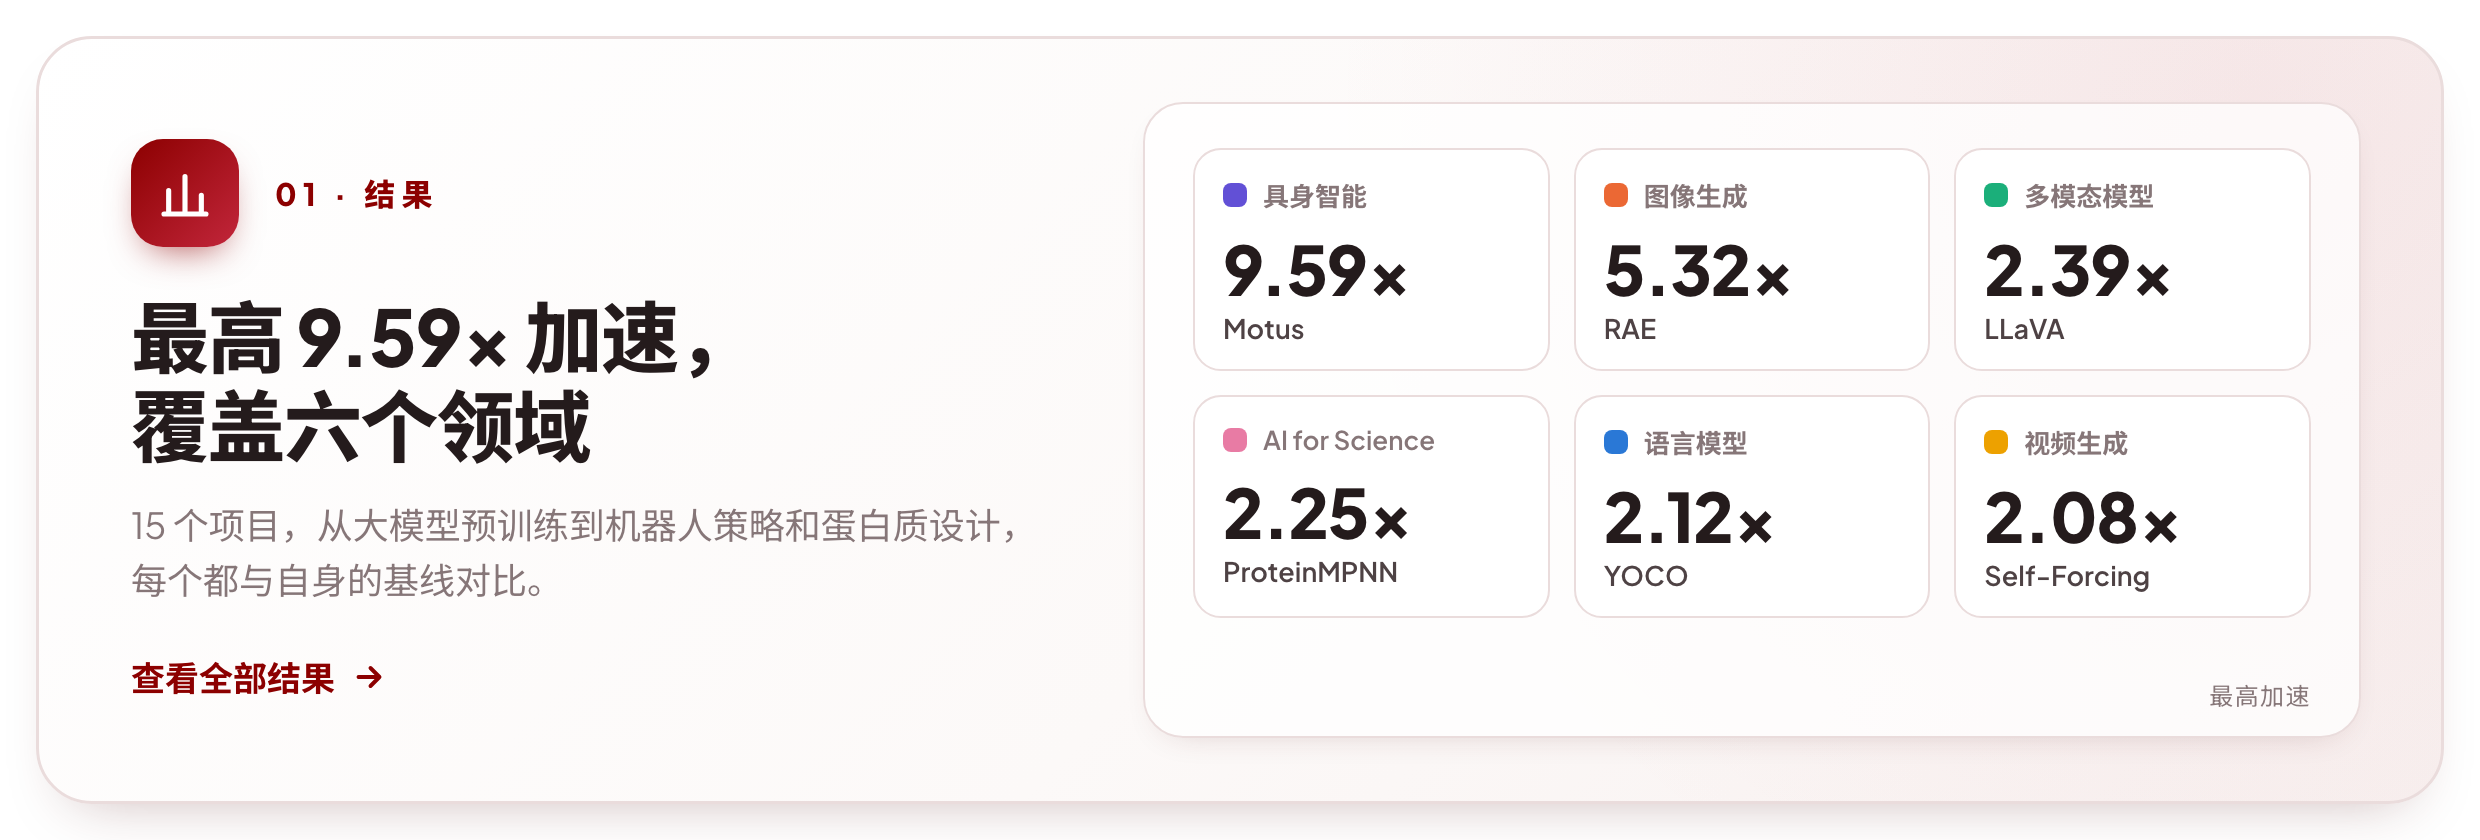
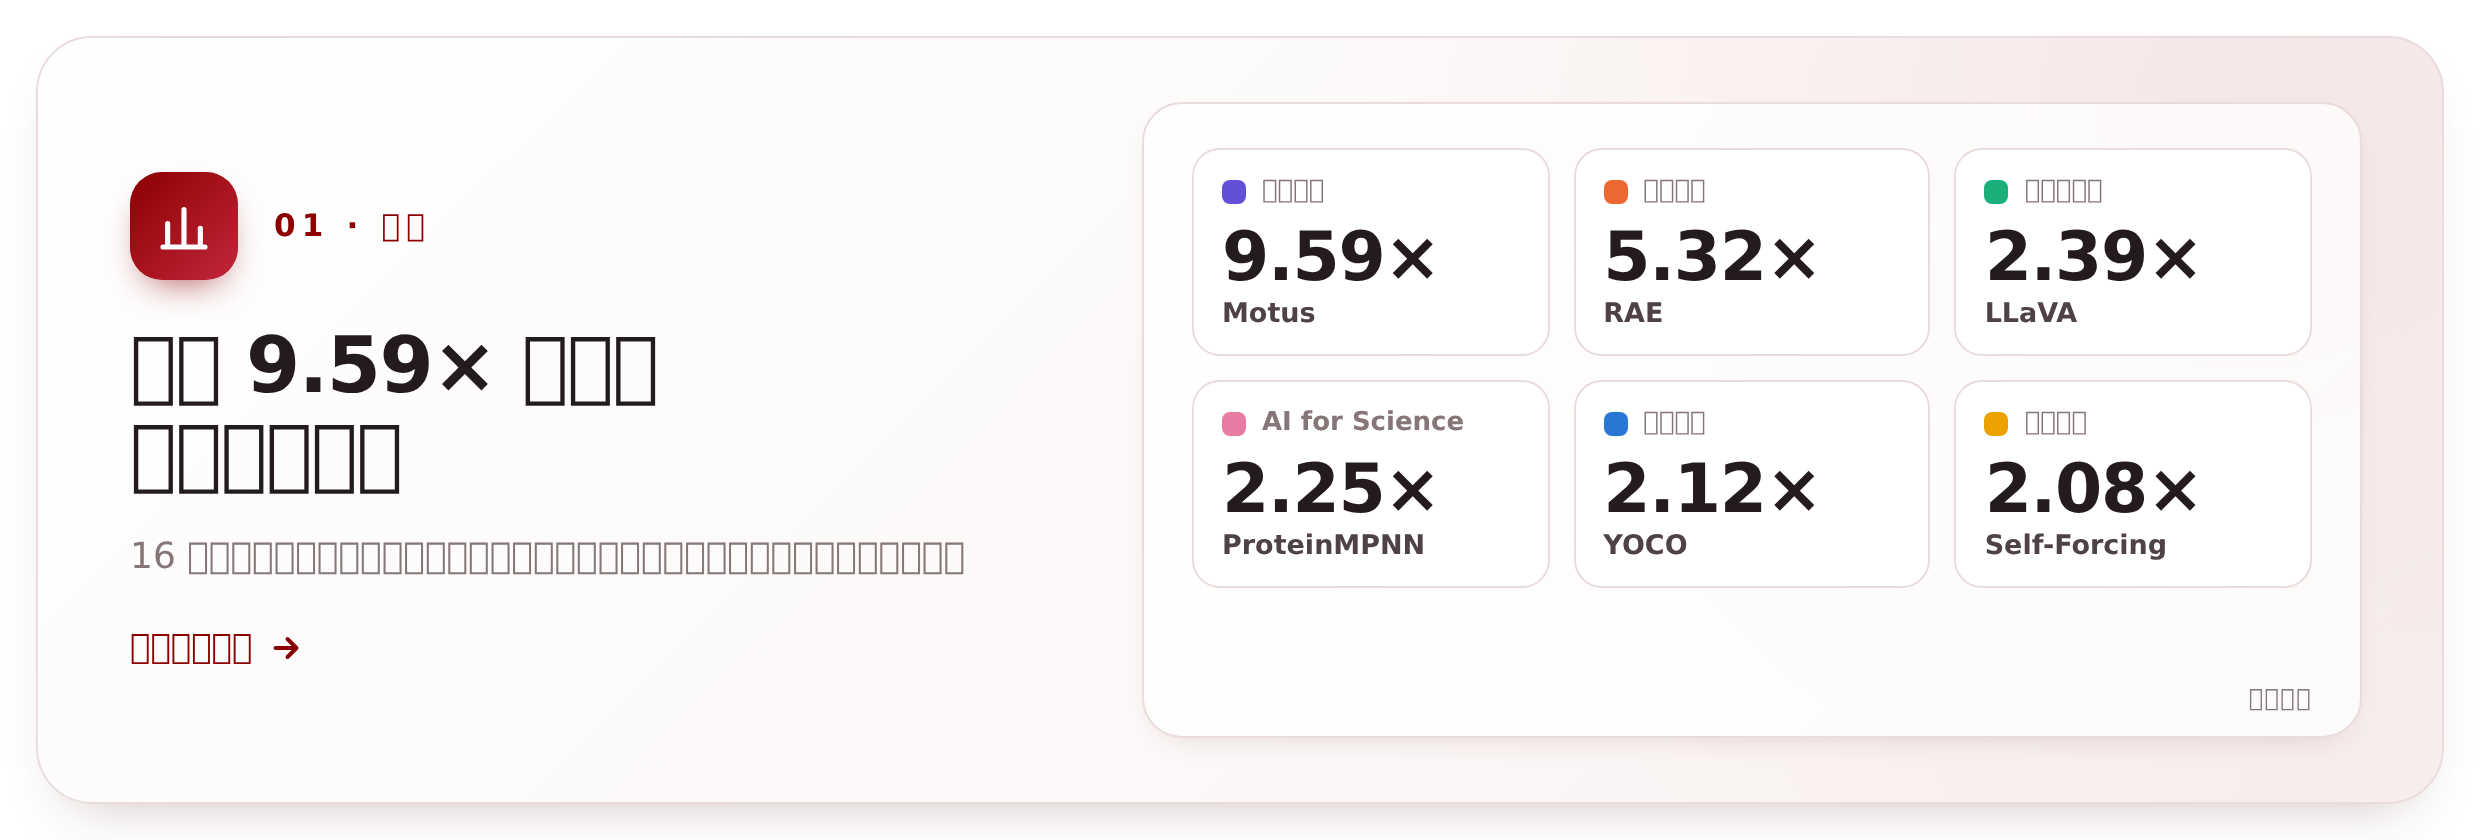
docs: add Faster-FermiNet to AI for Science results

diff --git a/docs/assets/readme/render.py b/docs/assets/readme/render.py
@@ -54,7 +54,7 @@ T = {
                     ("quickstart", "rocket", "Quick start", "light")],
         "cards": [
             ("results", "chart", "01 · RESULTS", "Up to 9.59× faster,<br>across six domains",
-             "15 projects, from LLM pretraining to robot policies and protein design, each measured against its own baseline.",
+             "16 projects, from LLM pretraining to robot policies and protein design, each measured against its own baseline.",
              "See all results"),
             ("prompt", "terminal", "02 · ONE PROMPT", "Paste one prompt,<br>get a verified speedup",
              "Open Codex or Claude Code on a GPU host. The agent finds the code, asks only what is yours to decide, and does the rest.",
@@ -128,7 +128,7 @@ T = {
                     ("quickstart", "rocket", "快速开始", "light")],
         "cards": [
             ("results", "chart", "01 · 结果", "最高 9.59× 加速，<br>覆盖六个领域",
-             "15 个项目，从大模型预训练到机器人策略和蛋白质设计，每个都与自身的基线对比。",
+             "16 个项目，从大模型预训练到机器人策略和蛋白质设计，每个都与自身的基线对比。",
              "查看全部结果"),
             ("prompt", "terminal", "02 · 一段提示词", "粘贴一段话，<br>拿到验证过的加速",
              "在 GPU 主机上打开 Codex 或 Claude Code。agent 自己找到代码，只问需要你决定的事，其余全部自己完成。",

diff --git a/docs/figures/make_results_overview.py b/docs/figures/make_results_overview.py
@@ -37,6 +37,7 @@ PROJECTS = [
     ("DMD2", "img", 1.72, "1.72×", False, "stat"),
     ("LLM2Vec", "llm", 1.6009, "1.60×", False, "stat"),
     ("JiT", "img", 1.56, "1.56×", False, "stat"),
+    ("FermiNet", "sci", 1.252, "1.25×", False, "bitwise"),
     ("NanoChat", "llm", 1.0744, "1.07×", False, "stat"),
 ]
 

diff --git a/docs/results/ai4s.md b/docs/results/ai4s.md
@@ -2,7 +2,7 @@
 
 [← All results](README.md) · [ResearchBoost-Agent](../../README.md#results)
 
-1 project · [ProteinMPNN](#faster-proteinmpnn)
+2 projects · [ProteinMPNN](#faster-proteinmpnn) · [FermiNet](#faster-ferminet)
 
 ## Faster-ProteinMPNN
 
@@ -22,3 +22,31 @@ Six of the recipe's 150 epochs (8,970 updates) per arm, run reference → candid
 This is a bounded exploratory comparison, not a frozen-judge four-gate PASS or a full-training convergence claim. The source tree contains the pinned upstream implementation with the training optimization applied in place, an unchanged reference arm, and reproduction scripts.
 
 [Code & project README ↗](https://github.com/micky-li-hd/Faster-ProteinMPNN) · [Detailed evidence ↗](https://github.com/micky-li-hd/Faster-ProteinMPNN/blob/main/six_epoch_evidence.json)
+
+## Faster-FermiNet
+
+Contributed by [@sen-ye](https://github.com/sen-ye).
+
+**FermiNet all-electron training on Fe, Kr, Cd and Xe · KFAC · 1024 walkers per GPU**
+
+| Item | Result |
+|---|---|
+| Speedup | **1.25×** (geometric mean 1.252× across four atoms) |
+| Hardware | 1 × NVIDIA H20 96 GB per atom; four independent single-GPU runs |
+| Measurement scope | Steady-state training-step time; compilation and warm-up excluded |
+| Validation | Frozen timing and bitwise gates PASS for all four atoms; every recorded step matches in 8-step and 110-step deterministic-mode checks |
+
+| Atom | Baseline (s/step) | Optimized (s/step) | Speedup |
+|---|---:|---:|---:|
+| Fe | 0.5383 | 0.4319 | **1.2463×** |
+| Kr | 1.1901 | 0.9569 | **1.2438×** |
+| Cd | 2.3870 | 1.8900 | **1.2630×** |
+| Xe | 3.7101 | 2.9564 | **1.2549×** |
+
+Based on upstream FermiNet at `e9d5a604`, with JAX 0.7.2 and cuBLAS 12.9.1.4. Eight ResearchBoost-Agent rounds (16 attempts) produced a bit-exact Pallas triangular-solve kernel that preserves cuBLAS layout and a 2× unroll of the Laplacian loop. All atoms use one generic configuration, with upstream precision, hyperparameters and random streams unchanged.
+
+Timing uses default XLA flags and independent baseline A → candidate → baseline B processes on the same GPU. Each arm runs 18 iterations; compilation and two warm-up steps are excluded, and the median of three 5-step windows determines step time. Bitwise checks run separately with `XLA_FLAGS=--xla_gpu_deterministic_ops=true`, using the same optimization switches. Energy bits, acceptance probabilities, walkers, parameters, KFAC optimizer state and MCMC width match at every recorded step, including width adaptation at step 100. The kernel also matches real cuBLAS for sizes 9–64, four variants and three input scales.
+
+The measurements cover single-device, real ground-state training with the default Laplacian on the pinned H20 stack. Pretraining and burn-in are shortened for benchmarking; the timed step is unchanged. Full training to convergence and deterministic-mode timing were not run. The portable reproduction launchers package the recorded protocol but have not themselves been rerun end to end. Revalidate the kernel on a different GPU or software stack.
+
+[Code & project README ↗](https://github.com/sen-ye/faster-ferminet) · [Timing & validation evidence ↗](https://github.com/sen-ye/faster-ferminet/blob/master/docs/validation/h20.json) · [Bitwise records ↗](https://github.com/sen-ye/faster-ferminet/blob/master/docs/validation/bitwise_records.json) · [Frozen judge ↗](https://github.com/sen-ye/faster-ferminet/blob/master/task/formulation.json) · [Optimization history ↗](https://github.com/sen-ye/faster-ferminet/blob/master/docs/history.md) · [Reproduction ↗](https://github.com/sen-ye/faster-ferminet/blob/master/docs/reproduction.md)

diff --git a/README.md b/README.md
@@ -45,7 +45,7 @@
 
 ## Highlights
 
-<a href="#results"><img src="docs/assets/readme/card-results-en.png" alt="Up to 9.59× faster across six research domains: 15 projects, each measured against its own baseline." width="100%"></a>
+<a href="#results"><img src="docs/assets/readme/card-results-en.png" alt="Up to 9.59× faster across six research domains: 16 projects, each measured against its own baseline." width="100%"></a>
 
 <a href="#quick-start"><img src="docs/assets/readme/card-prompt-en.png" alt="Paste one prompt into Codex or Claude Code; the agent finds the code, asks only what is yours to decide, and does the rest." width="100%"></a>
 
@@ -55,7 +55,7 @@
 
 ## Results
 
-<a href="https://ai4ai-for-anything.github.io/#research"><img src="docs/figures/results-overview.svg" alt="All 15 projects ranked by speedup over their own baselines, from 9.59× (Motus) to 1.07× (NanoChat), with how each was validated" width="100%"></a>
+<a href="https://ai4ai-for-anything.github.io/#research"><img src="docs/figures/results-overview.svg" alt="All 16 projects ranked by speedup over their own baselines, from 9.59× (Motus) to 1.07× (NanoChat), with how each was validated" width="100%"></a>
 
 <img src="docs/figures/results-time.svg" alt="Baseline vs optimized time for six projects, such as Motus fine-tuning from 7.47 s to 0.78 s per iteration and the RoboTwin benchmark from 73.5 h to 16.8 h" width="100%">
 
@@ -126,11 +126,12 @@ Open a domain for the workloads, or the reports for experiment settings and vali
 </details>
 
 <details>
-<summary><strong>AI for Science</strong> · 1 project — ProteinMPNN</summary>
+<summary><strong>AI for Science</strong> · 2 projects — ProteinMPNN, FermiNet</summary>
 
 | Project | Workload | Speedup |
 |---|---|---:|
 | [Faster-ProteinMPNN](https://github.com/micky-li-hd/Faster-ProteinMPNN) by [@micky-li-hd](https://github.com/micky-li-hd) | ProteinMPNN v_48_020 training · full public dataset | **2.25×** |
+| [Faster-FermiNet](https://github.com/sen-ye/faster-ferminet) by [@sen-ye](https://github.com/sen-ye) | Fe / Kr / Cd / Xe all-electron training · KFAC, 1024 walkers per GPU | **1.25×** |
 
 [Measurement setup & validation →](docs/results/ai4s.md)
 
@@ -204,7 +205,7 @@ The quick start does this for you. By hand: read [AGENTS.md](AGENTS.md) and [doc
 
 | Path | Contents |
 |---|---|
-| [`docs/results/`](docs/results) | Results from 15 projects, grouped by domain, with measurement scope and validation records |
+| [`docs/results/`](docs/results) | Results from 16 projects, grouped by domain, with measurement scope and validation records |
 | [`docs/`](docs) | [Methodology](docs/methodology.md), [the judge](docs/judge.md), [goal mode](docs/goal-mode.md), [running a task](docs/run-a-task.md), [lessons from four tasks](docs/lessons.md) |
 | [`goal/`](goal) | Running one Codex or Claude Code `/goal` session on claw-orchestrator: the task scaffold, the sandbox, model access for both engines, run / status / steer / resume scripts and the final check, the watchdog, the brief for the formulating and supervising agent |
 | [`numerics/`](numerics) | The equivalence component every task judge copies and freezes: recording, bitwise and tiered comparison, paired-seed trajectories, the task adapter base class, a self-test |

diff --git a/README.zh-CN.md b/README.zh-CN.md
@@ -45,7 +45,7 @@
 
 ## 亮点
 
-<a href="#已有结果"><img src="docs/assets/readme/card-results-zh.png" alt="最高 9.59× 加速，覆盖六个研究领域：15 个项目，每个都与自身的基线对比。" width="100%"></a>
+<a href="#已有结果"><img src="docs/assets/readme/card-results-zh.png" alt="最高 9.59× 加速，覆盖六个研究领域：16 个项目，每个都与自身的基线对比。" width="100%"></a>
 
 <a href="#快速开始"><img src="docs/assets/readme/card-prompt-zh.png" alt="在 Codex 或 Claude Code 里粘贴一段话；agent 自己找到代码，只问需要你决定的事，其余全部自己完成。" width="100%"></a>
 
@@ -55,7 +55,7 @@
 
 ## 已有结果
 
-<a href="https://ai4ai-for-anything.github.io/#research"><img src="docs/figures/results-overview.zh-CN.svg" alt="15 个项目按相对自身基线的加速比排名，从 9.59×（Motus）到 1.07×（NanoChat），附验证方式" width="100%"></a>
+<a href="https://ai4ai-for-anything.github.io/#research"><img src="docs/figures/results-overview.zh-CN.svg" alt="16 个项目按相对自身基线的加速比排名，从 9.59×（Motus）到 1.07×（NanoChat），附验证方式" width="100%"></a>
 
 <img src="docs/figures/results-time.zh-CN.svg" alt="6 个项目的基线与优化后耗时对比，例如 Motus 微调每次迭代从 7.47 s 降到 0.78 s，RoboTwin 完整评测从 73.5 h 降到 16.8 h" width="100%">
 
@@ -126,11 +126,12 @@
 </details>
 
 <details>
-<summary><strong>AI for Science</strong> · 1 个项目 — ProteinMPNN</summary>
+<summary><strong>AI for Science</strong> · 2 个项目 — ProteinMPNN、FermiNet</summary>
 
 | 项目 | 工作负载 | 加速比 |
 |---|---|---:|
 | [Faster-ProteinMPNN](https://github.com/micky-li-hd/Faster-ProteinMPNN)（[@micky-li-hd](https://github.com/micky-li-hd) 贡献） | ProteinMPNN v_48_020 训练（完整公开数据集） | **2.25×** |
+| [Faster-FermiNet](https://github.com/sen-ye/faster-ferminet)（[@sen-ye](https://github.com/sen-ye) 贡献） | Fe / Kr / Cd / Xe 全电子训练 · KFAC，每卡 1024 walkers | **1.25×** |
 
 [实验设置与验证记录（英文） →](docs/results/ai4s.md)
 
@@ -204,7 +205,7 @@ Codex 用 `codex --enable default_mode_request_user_input` 启动时会弹出提
 
 | 路径 | 内容 |
 |---|---|
-| [`docs/results/`](docs/results) | 15 个项目的分类报告、测量范围与验证记录（英文） |
+| [`docs/results/`](docs/results) | 16 个项目的分类报告、测量范围与验证记录（英文） |
 | [`docs/`](docs) | 英文文档：[方法](docs/methodology.md)、[评测](docs/judge.md)、[goal 模式](docs/goal-mode.md)、[任务运行指南](docs/run-a-task.md)、[四个任务的经验](docs/lessons.md) |
 | [`goal/`](goal) | 在 claw-orchestrator 上运行 Codex 或 Claude Code `/goal` 会话的工具：建任务目录的脚本、沙箱、两种引擎的模型访问配置、启动 / 查看状态 / 发送提醒 / 恢复运行的脚本和最终评测、监控脚本，以及任务准备和监督 agent 的说明 |
 | [`numerics/`](numerics) | 各任务评测复制并固定版本的数值等价性检查组件：数据记录、逐位和分级比对、配对随机种子的训练轨迹比对、任务适配器基类及自测 |

diff --git a/docs/results/README.md b/docs/results/README.md
@@ -2,7 +2,7 @@
 
 [← ResearchBoost-Agent](../../README.md#results)
 
-**15 projects · 6 research domains**
+**16 projects · 6 research domains**
 
 Each report includes the workload, hardware, timing and validation results, with links to the project’s code and experiments.
 
@@ -13,8 +13,8 @@ Each report includes the workload, hardware, timing and validation results, with
 | Image Generation | RAE, DMD2, JiT | [Open report](image-generation.md) |
 | Video Generation | Self-Forcing, [MiniMax-H3](https://github.com/2018cx/Faster-MiniMax-H3) by [@2018cx](https://github.com/2018cx) | [Open report](video-generation.md) |
 | Embodied AI | RoboTwin, Motus, FastWAM | [Open report](embodied-ai.md) |
-| AI for Science | [ProteinMPNN](https://github.com/micky-li-hd/Faster-ProteinMPNN) by [@micky-li-hd](https://github.com/micky-li-hd) | [Open report](ai4s.md) |
+| AI for Science | [ProteinMPNN](https://github.com/micky-li-hd/Faster-ProteinMPNN) by [@micky-li-hd](https://github.com/micky-li-hd), [FermiNet](https://github.com/sen-ye/faster-ferminet) by [@sen-ye](https://github.com/sen-ye) | [Open report](ai4s.md) |
 
 Speedups compare each workload with its own baseline. **est.** marks an extrapolated result.
 
-Updated **2026-10-30** from the linked project reports and [website results](https://ai4ai-for-anything.github.io/#research), including R3’s **2.08× on 8 × H100** and MiniMax-H3’s repaired **1.8570× on 8 × H20**. LLM2Vec reports independent MNTP and SimCSE stage measurements; its validation limitations are documented in the [LLM report](llm.md#faster-llm2vec).
+Updated **2026-11-06** from the linked project reports and [website results](https://ai4ai-for-anything.github.io/#research), including FermiNet’s **1.25× on H20**, R3’s **2.08× on 8 × H100** and MiniMax-H3’s repaired **1.8570× on 8 × H20**. LLM2Vec reports independent MNTP and SimCSE stage measurements; its validation limitations are documented in the [LLM report](llm.md#faster-llm2vec).
